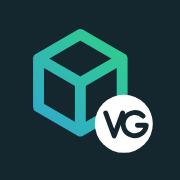
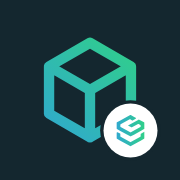
Nieuw app-icoon met het echte Van Gils-beeldmerk (1.1.1)
De doos staat nu in het midden en de witte badge toont het beeldmerk van
vangils.pro in plaats van de letters VG. Bron in img/app-icoon.svg.

Claude-Session: https://claude.ai/code/session_01XHzzxPBag5cquLuTZVMc8h

diff --git a/index.html b/index.html
@@ -13,8 +13,8 @@
   <meta name="apple-mobile-web-app-status-bar-style" content="default" />
   <meta name="format-detection" content="telephone=no" />
   <link rel="manifest" href="manifest.webmanifest" />
-  <link rel="icon" href="img/icon-192.png" />
-  <link rel="apple-touch-icon" href="img/apple-touch-icon.png" />
+  <link rel="icon" href="img/icon-192.png?v=2" />
+  <link rel="apple-touch-icon" href="img/apple-touch-icon.png?v=2" />
   <link rel="stylesheet" href="css/app.css" />
   <script type="module" src="js/app.js"></script>
 </head>

diff --git a/sw.js b/sw.js
@@ -1,7 +1,7 @@
 // ---- Offline werken
 // Alle bestanden van de app worden bij de eerste keer bewaard, zodat de app ook zonder internet opent
 // (in de bestelwagen, in een kelder…). Nieuwe versie = CACHE-naam ophogen (zelfde als js/version.js).
-const CACHE = 'voorraad-1.1';
+const CACHE = 'voorraad-1.1.1';
 const FILES = [
   './', 'index.html', 'manifest.webmanifest', 'css/app.css',
   'js/app.js', 'js/files.js', 'js/icons.js', 'js/material.js', 'js/photo.js', 'js/qr.js', 'js/router.js',

diff --git a/js/version.js b/js/version.js
@@ -1,2 +1,2 @@
 // Versie van de web-app; ook gebruikt als naam van de offline-cache in sw.js (daar mee aanpassen).
-export const VERSION = '1.1';
+export const VERSION = '1.1.1';
